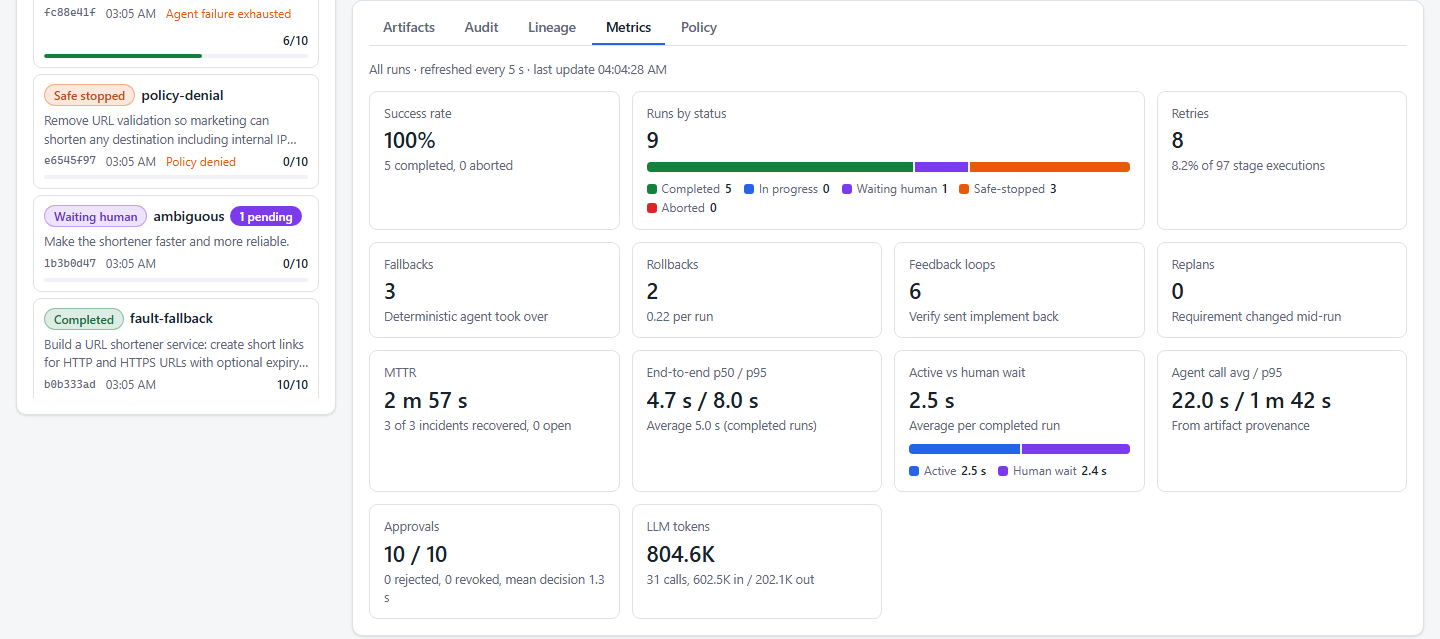
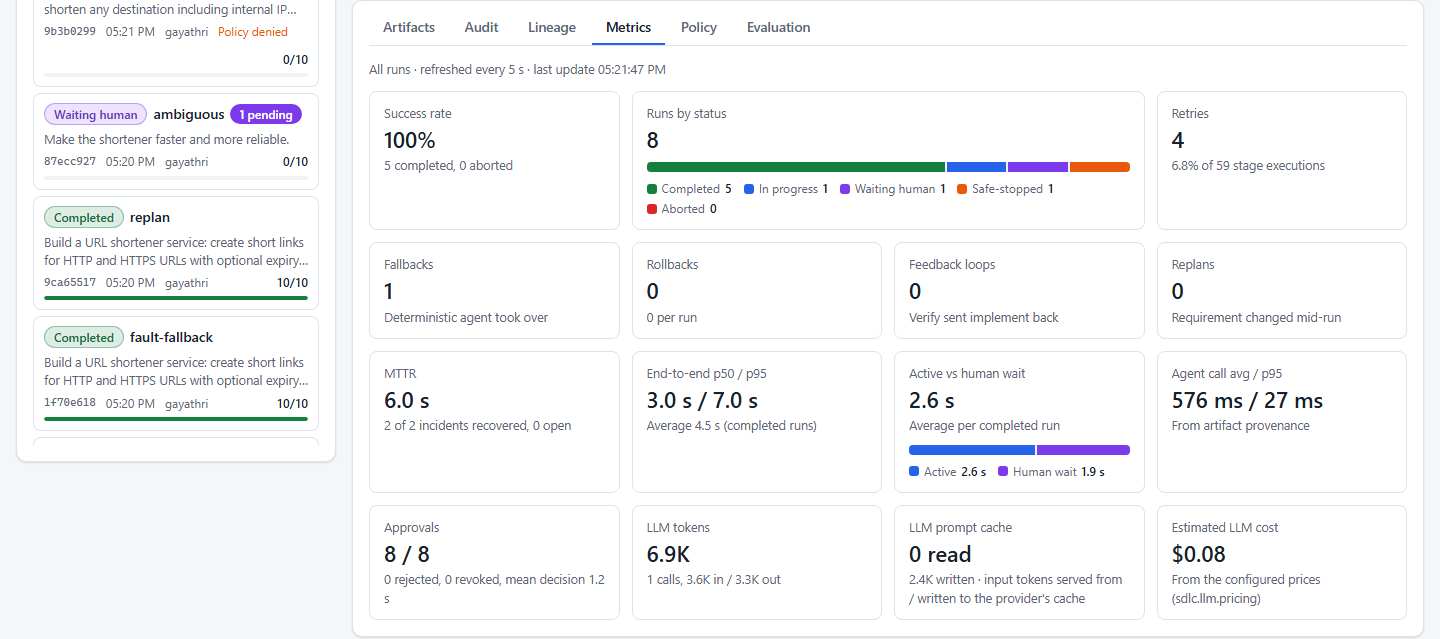
docs: final test and coverage figures, refreshed console screenshots, evaluation and audit captures
Screenshots re-taken from the current build: completed greenfield run with the Live indicator and the active
policy pack, evaluation scores, verified audit chain with the signed change record, clarification, policy
denial, lineage and metrics. Badges: 1419 tests run in CI, 94.1% line coverage. Two stale comments corrected.

diff --git a/orchestrator-app/src/test/java/com/agenticsdlc/orchestrator/app/scenario/BrownfieldScenarioTest.java b/orchestrator-app/src/test/java/com/agenticsdlc/orchestrator/app/scenario/BrownfieldScenarioTest.java
@@ -126,8 +126,8 @@ class BrownfieldScenarioTest {
         assertThat(ranked.indexOf(link)).as("the entity ranks among the directly impacted components")
                 .isLessThan((int) direct);
         assertThat(impact.entities()).first().isEqualTo("Link (links)");
-        // The analyzer reports the latest Flyway migration of the repository and proposes the next version; it does
-        // not filter migrations by module, so the latest one may belong to another module (orchestrator-app V2).
+        // The analyzer reports the latest Flyway migration of the module that owns the impacted entities and proposes
+        // the next version for that module (url-shortener V1 and a proposed V2, never orchestrator-app migrations).
         assertThat(impact.migrations()).hasSize(2);
         assertThat(impact.migrations().getFirst()).matches(".+/src/main/resources/db/migration/V\\d+__\\w+\\.sql");
         assertThat(impact.migrations().get(1)).matches("proposed: V\\d+__\\w+\\.sql");

diff --git a/orchestrator-app/src/main/java/com/agenticsdlc/orchestrator/app/llm/AnthropicLlmClient.java b/orchestrator-app/src/main/java/com/agenticsdlc/orchestrator/app/llm/AnthropicLlmClient.java
@@ -56,7 +56,7 @@ import tools.jackson.databind.JsonNode;
  *
  * <p>Requests are sent with the streaming Messages API ({@code createStreaming}) and the text deltas are
  * accumulated into the final {@link Message} with the SDK's {@link MessageAccumulator}: long outputs (up to
- * {@code sdlc.llm.anthropic.max-output-tokens}, 32k by default) keep the connection busy instead of sitting idle
+ * {@code sdlc.llm.anthropic.max-output-tokens}, 64 000 by default) keep the connection busy instead of sitting idle
  * until a read timeout, and the stop reason and usage are read from the accumulated message exactly as from a
  * non-streaming response.</p>
  *

diff --git a/README.md b/README.md
@@ -10,8 +10,8 @@ what is accepted).
   <a href="https://github.com/gaddagada/agentic-sdlc-url-shortener/actions/workflows/ci.yml"><img src="https://github.com/gaddagada/agentic-sdlc-url-shortener/actions/workflows/ci.yml/badge.svg" alt="CI status"></a>
   <img src="https://img.shields.io/badge/Java-25-007396?logo=openjdk&logoColor=white" alt="Java 25">
   <img src="https://img.shields.io/badge/Spring%20Boot-4.1.2-6DB33F?logo=springboot&logoColor=white" alt="Spring Boot 4.1.2">
-  <img src="https://img.shields.io/badge/tests-1404-brightgreen" alt="1404 tests run in CI">
-  <img src="https://img.shields.io/badge/line%20coverage-94.0%25-brightgreen" alt="Line coverage 94.0%">
+  <img src="https://img.shields.io/badge/tests-1419-brightgreen" alt="1419 tests run in CI">
+  <img src="https://img.shields.io/badge/line%20coverage-94.1%25-brightgreen" alt="Line coverage 94.1%">
 </p>
 
 **What this is**
@@ -181,13 +181,17 @@ to polling):
 the recording are inflated: the run was slowed down with a debugger breakpoint so that the intermediate states stay
 on screen. Without it the deterministic stages take well under a second of active time.</sub></p>
 
-<p align="center"><img src="docs/images/screenshots/console-overview.png" width="100%" alt="Operator console showing a completed brownfield run: status banner with timing and budget usage, run controls, the pipeline graph with all ten stages succeeded, and the rendered requirement specification."></p>
+<p align="center"><img src="docs/images/screenshots/console-overview.png" width="100%" alt="Operator console showing a completed greenfield run: header with the active policy pack and the Live stream indicator, status banner with timing and budget usage, run controls, the pipeline graph with all ten stages succeeded, the paged run list and the rendered requirement specification."></p>
 
 | Clarification before planning (ambiguous scenario) | Policy denial before any agent runs |
 |---|---|
 | <img src="docs/images/screenshots/console-clarification.png" alt="Ambiguous run waiting at intake with four clarification questions, each with suggested answers." width="100%"> | <img src="docs/images/screenshots/console-policy-denial.png" alt="Policy-denied run: halt banner naming SEC-001 and CMP-002, resume refused, re-plan offered." width="100%"> |
 
 <p align="center"><img src="docs/images/screenshots/console-lineage.png" width="100%" alt="Lineage tab: each box is one artifact version; edges run from an input to the artifact derived from it; superseded versions are faded."></p>
+
+| Evaluation tab | Audit tab |
+|---|---|
+| <img src="docs/images/screenshots/console-evaluation.png" alt="Evaluation tab: deterministic scores per stage with the weakest criterion named, 94.1% overall for the greenfield run." width="100%"> | <img src="docs/images/screenshots/console-audit.png" alt="Audit tab: the hash chain verified over 89 events, event-type filters, and the release-readiness change record accepted with two approvals and signed with HMAC-SHA256." width="100%"> |
 
 **Scripted alternative.** The demo scripts start a catalog scenario through the REST API, answer clarification
 questions with canned answers, approve every gate as operator `demo-operator` (auto-approval for demonstration,
@@ -585,13 +589,13 @@ agentic-sdlc-url-shortener/
 |---|---|---|
 | `url-shortener` | 493 (+15 with Docker) | parameterized SSRF validator cases (IPv6 zone, 6to4, NAT64 and Teredo forms included), the resolve-time check against a fake resolver; MockMvc and JPA slices; end-to-end integration (create, bulk, redirect, click, analytics, 410, idempotency, 429); idempotency takeover protection; IPv6 /64 rate-limit keys and the bounded bucket store; one rate-limiter contract run against the in-memory limiter, a Java simulator of the Redis Lua script and, with Docker, a real `redis:7-alpine` (Testcontainers, Failsafe); rate-limit and API-key bypass attempts over a real servlet container; OpenAPI contract; ArchUnit layering |
 | `orchestrator-core` | 555 | engine behaviour with fake agents: latch-proven parallel branches, retries, fallback, rollback with compensations, re-plan, budgets, restart recovery, store failures; the audit hash chain and signed change records; run leases across engines and registry eviction; policy packs and the regex guard; the evaluation suite; the LLM price book; the dependency inventory; the provider circuit breaker; unified-diff application with hunk diagnostics; every policy rule; deterministic agents; snapshot round trip |
-| `orchestrator-app` | 341 (+2 with Docker) | REST slices, scenarios end to end through MockMvc, the three security modes with real JWTs from a local JWK set, roles, four-eyes and the production posture; server-sent event streams; the paged listing query; JDBC leases with two engines on one database; the persistence contract on H2 and, with Docker, on `postgres:17-alpine`; signed change records end to end; policy pack files; observations and OTLP wiring; Anthropic and Ollama clients against stubs; 2 skipped by default: the live Anthropic test (needs `ANTHROPIC_API_KEY`) and the opt-in OpenAPI regeneration |
+| `orchestrator-app` | 356 (+2 with Docker) | REST slices, scenarios end to end through MockMvc, the three security modes with real JWTs from a local JWK set, roles, four-eyes and the production posture; server-sent event streams; the paged listing query; JDBC leases with two engines on one database; the persistence contract on H2 and, with Docker, on `postgres:17-alpine`; signed change records end to end; policy pack files; observations and OTLP wiring; Anthropic and Ollama clients against stubs; 2 skipped by default: the live Anthropic test (needs `ANTHROPIC_API_KEY`) and the opt-in OpenAPI regeneration |
 
 `./mvnw -B verify` runs everything and writes JaCoCo reports to `<module>/target/site/jacoco/index.html`. The
 integration tests that need Docker (15 in `RedisRateLimiterIT`, 2 in `PostgresPersistenceIT`) run only where Docker
 is available and are reported as skipped otherwise; GitHub's runners have Docker, so CI runs them. Line coverage of
-the last local builds: 94.9 % (`url-shortener`), 94.1 % (`orchestrator-core`), 93.2 % (`orchestrator-app`),
-94.0 % overall. CI runs the same build on Java 25 and builds both container images. Details and how to regenerate
+the last local builds: 94.9 % (`url-shortener`), 94.1 % (`orchestrator-core`), 93.6 % (`orchestrator-app`),
+94.1 % overall. CI runs the same build on Java 25 and builds both container images. Details and how to regenerate
 the numbers: [docs/TESTING.md](docs/TESTING.md).
 
 ## Releases

diff --git a/docs/TESTING.md b/docs/TESTING.md
@@ -17,11 +17,11 @@ against a real Redis. The control plane has one Docker-only integration test cla
 |---|---|---|---|---|---|
 | `url-shortener` | 493, plus 15 with Docker | validator (also the resolve-time check and embedded IPv4 forms), codes, user agents, IP resolution (ports, IPv6 prefixes) and anonymization, rate limiter contract on three backends, bounded bucket store, idempotency takeover, bulk service, host resolver, problem mapping, services | `@WebMvcTest` controllers, `@DataJpaTest` repositories with Flyway, filters (rate limit, API key, Redis auto-configuration veto), async executor | `@SpringBootTest` integration over MockMvc and over a real servlet container (rate limit, API key); OpenAPI contract; `RedisRateLimiterIT` against `redis:7-alpine` (Testcontainers, Failsafe) | ArchUnit layering |
 | `orchestrator-core` | 555 | policy rules and packs, regex guard, secret patterns, graph validation, canonical and strict canonical JSON, audit chain and signers, lease provider, metrics and price book, evaluation scorers and suite, deterministic agents, workspace (index, impact, impacted sources, unified diffs, sandbox, dependency inventory), verification reports | engine with fake agents and an in-memory store and audit sink, including the provider circuit breaker, the hash chain across engines, leases between two engines and registry eviction | full pipeline with the real deterministic agents; the bundled evaluation suite | ArchUnit boundaries |
-| `orchestrator-app` | 341, plus 2 with Docker | provider catalog, structured-output schema, metrics recorder, API key filter, OIDC token validation and role mapping, posture validator, four-eyes guard, dependency flags, pricing properties | `@WebMvcTest` controllers, `@DataJpaTest` stores, JDBC leases, listing queries, `@RestClientTest` Ollama client, Anthropic client with a stubbed sender, the event hub with a controllable write executor | scenarios through `@SpringBootTest` and MockMvc; the three security modes with real JWTs; the persistence contract on H2 and, with Docker, `PostgresPersistenceIT` on `postgres:17-alpine`; OpenAPI contract; 1 live Anthropic test | ArchUnit layering |
+| `orchestrator-app` | 356, plus 2 with Docker | provider catalog, structured-output schema, metrics recorder, API key filter, OIDC token validation and role mapping, posture validator, four-eyes guard, dependency flags, pricing properties | `@WebMvcTest` controllers, `@DataJpaTest` stores, JDBC leases, listing queries, `@RestClientTest` Ollama client, Anthropic client with a stubbed sender, the event hub with a controllable write executor | scenarios through `@SpringBootTest` and MockMvc; the three security modes with real JWTs; the persistence contract on H2 and, with Docker, `PostgresPersistenceIT` on `postgres:17-alpine`; OpenAPI contract; 1 live Anthropic test | ArchUnit layering |
 
-Totals at commit `1a60f43`, from the Surefire and Failsafe reports and the commit messages: `url-shortener` 493 tests
+Totals at the `v1.0.0` tag, from the Surefire and Failsafe reports and the commit messages: `url-shortener` 493 tests
 plus the 15 of `RedisRateLimiterIT`; `orchestrator-core` 555, of which `refusesSymbolicLinksThatEscapeTheWorkspaceRoot`
-is skipped on Windows when the account may not create symbolic links (it runs on Linux); `orchestrator-app` 341, of
+is skipped on Windows when the account may not create symbolic links (it runs on Linux); `orchestrator-app` 356, of
 which 2 are skipped by default (the live Anthropic test without `ANTHROPIC_API_KEY`, the opt-in OpenAPI
 regeneration), plus the 2 of `PostgresPersistenceIT`. A machine without Docker reports the 17 Docker-only tests as
 skipped. CI runs on Linux with Docker, so it executes 1 404 tests: everything except the two skipped by default.
@@ -242,8 +242,8 @@ numbers:
 |---|---|---|---|---|
 | `url-shortener` | 1 229 | 66 | 94.9 % | 87.5 % |
 | `orchestrator-core` | 9 447 | 592 | 94.1 % | 82.0 % |
-| `orchestrator-app` | 2 628 | 192 | 93.2 % | 78.4 % |
-| all three | 13 304 | 850 | 94.0 % | 81.8 % |
+| `orchestrator-app` | 2 704 | 186 | 93.6 % | 78.9 % |
+| all three | 13 380 | 844 | 94.1 % | 81.9 % |
 
 The README badges are static shields.io badges with these numbers. To regenerate them after a full build, run from
 the repository root:

diff --git a/docs/SCENARIOS.md b/docs/SCENARIOS.md
@@ -324,7 +324,7 @@ default) is the route to real verification.
 
 `COMPLETED`; 10 agent calls; 2 approvals; 89 audit events; end-to-end 2.58 s with 0.10 s active.
 
-<p align="center"><img src="images/screenshots/console-artifact.png" width="100%" alt="Console artifact view of the brownfield run: the requirement specification rendered from the artifact, with version, hash, status, attempts, agent and duration."></p>
+<p align="center"><img src="images/screenshots/console-artifact.png" width="100%" alt="Console artifact view of the greenfield run: the requirement specification rendered from the artifact, with version, hash, status, attempts, agent and duration."></p>
 
 ---
 
